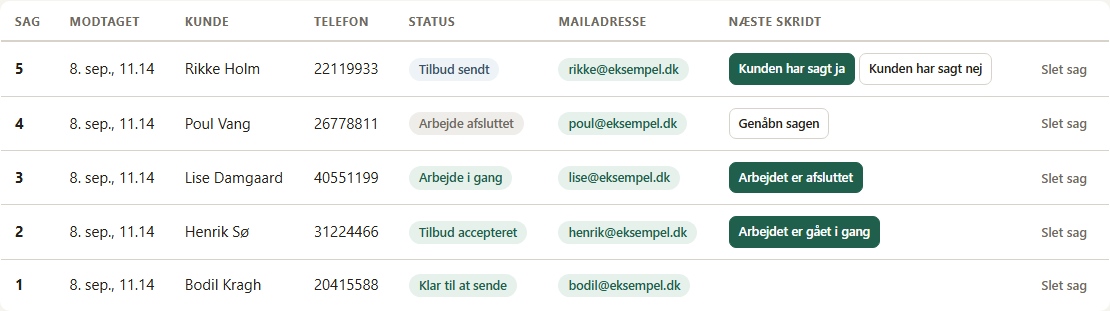
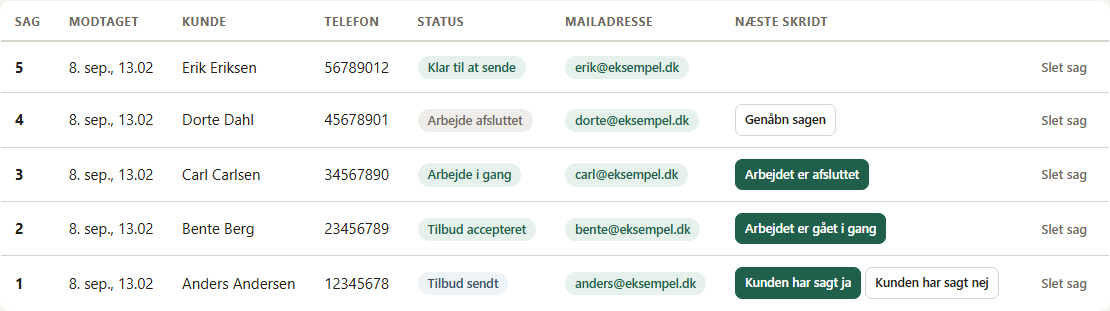
Alle data paa billederne er opdigtede
Der stod "Toemrerfirmaet RN" og et CVR-nummer paa tilbuddet, og
sagslisten havde fem kunders navne, adresser, telefonnumre og
mailadresser. Det saa aegte ud, og noget af det VAR aegte. Det hoerer
ikke hjemme paa en offentlig hjemmeside.

Nu er alt tydeligt opfundet og kan ikke forveksles med nogen:

  Haandvaerker ApS, CVR 12345678
  Anders Andersen, Telemakker Vej 1, 1234 Byen, 12 34 56 78
  Bente Berg, Carl Carlsen, Dorte Dahl, Erik Eriksen
  Telefonnumrene taeller op: 12345678, 23456789, 34567890 ...
  Mailadresser paa eksempel.dk

Alt-teksterne siger det ogsaa, saa en skaermlaeser faar det med.

Begge billeder er stadig tegnet af den rigtige platform og den rigtige
PDF, kun med andre data.

diff --git a/index.html b/index.html
@@ -407,8 +407,8 @@ footer a:hover{color:var(--blaek)}
       </ul>
     </div>
     <figure class="tilbudsside">
-      <img src="billeder/tilbud.png" width="1190" height="1684" loading="lazy"
-           alt="Første side af tilbuddet som kunden modtager: Tømrerfirmaet RN i toppen, kundens navn og adresse, opgaven beskrevet, arbejdet og materialerne som linjer, og nederst en samlet pris inklusive moms på 43.790,60 kr.">
+      <img src="billeder/tilbud.png" width="1191" height="1684" loading="lazy"
+           alt="Første side af tilbuddet, som kunden modtager. Håndværker ApS i toppen, derefter kundens navn og adresse, opgaven beskrevet, arbejdet og materialerne som linjer med timer og enhedspriser, og nederst en samlet pris inklusive moms på 43.790,60 kr. Alle oplysninger er opdigtede.">
     </figure>
   </div>
 </section>
@@ -483,8 +483,8 @@ footer a:hover{color:var(--blaek)}
             status, når kunden svarer, og noten om hvad hun sagde bliver stående i sagen.</p>
         </div>
         <figure>
-          <img src="billeder/sagsliste.png" width="1119" height="322" loading="lazy"
-               alt="Sagslisten i TeleMakker med status på hvert tilbud og knapper til det næste skridt.">
+          <img src="billeder/sagsliste.png" width="1110" height="311" loading="lazy"
+               alt="Sagslisten med fem opdigtede sager: status på hvert tilbud fra klar til at sende til arbejde afsluttet, og en knap til det næste skridt.">
         </figure>
       </div>
     </div>
